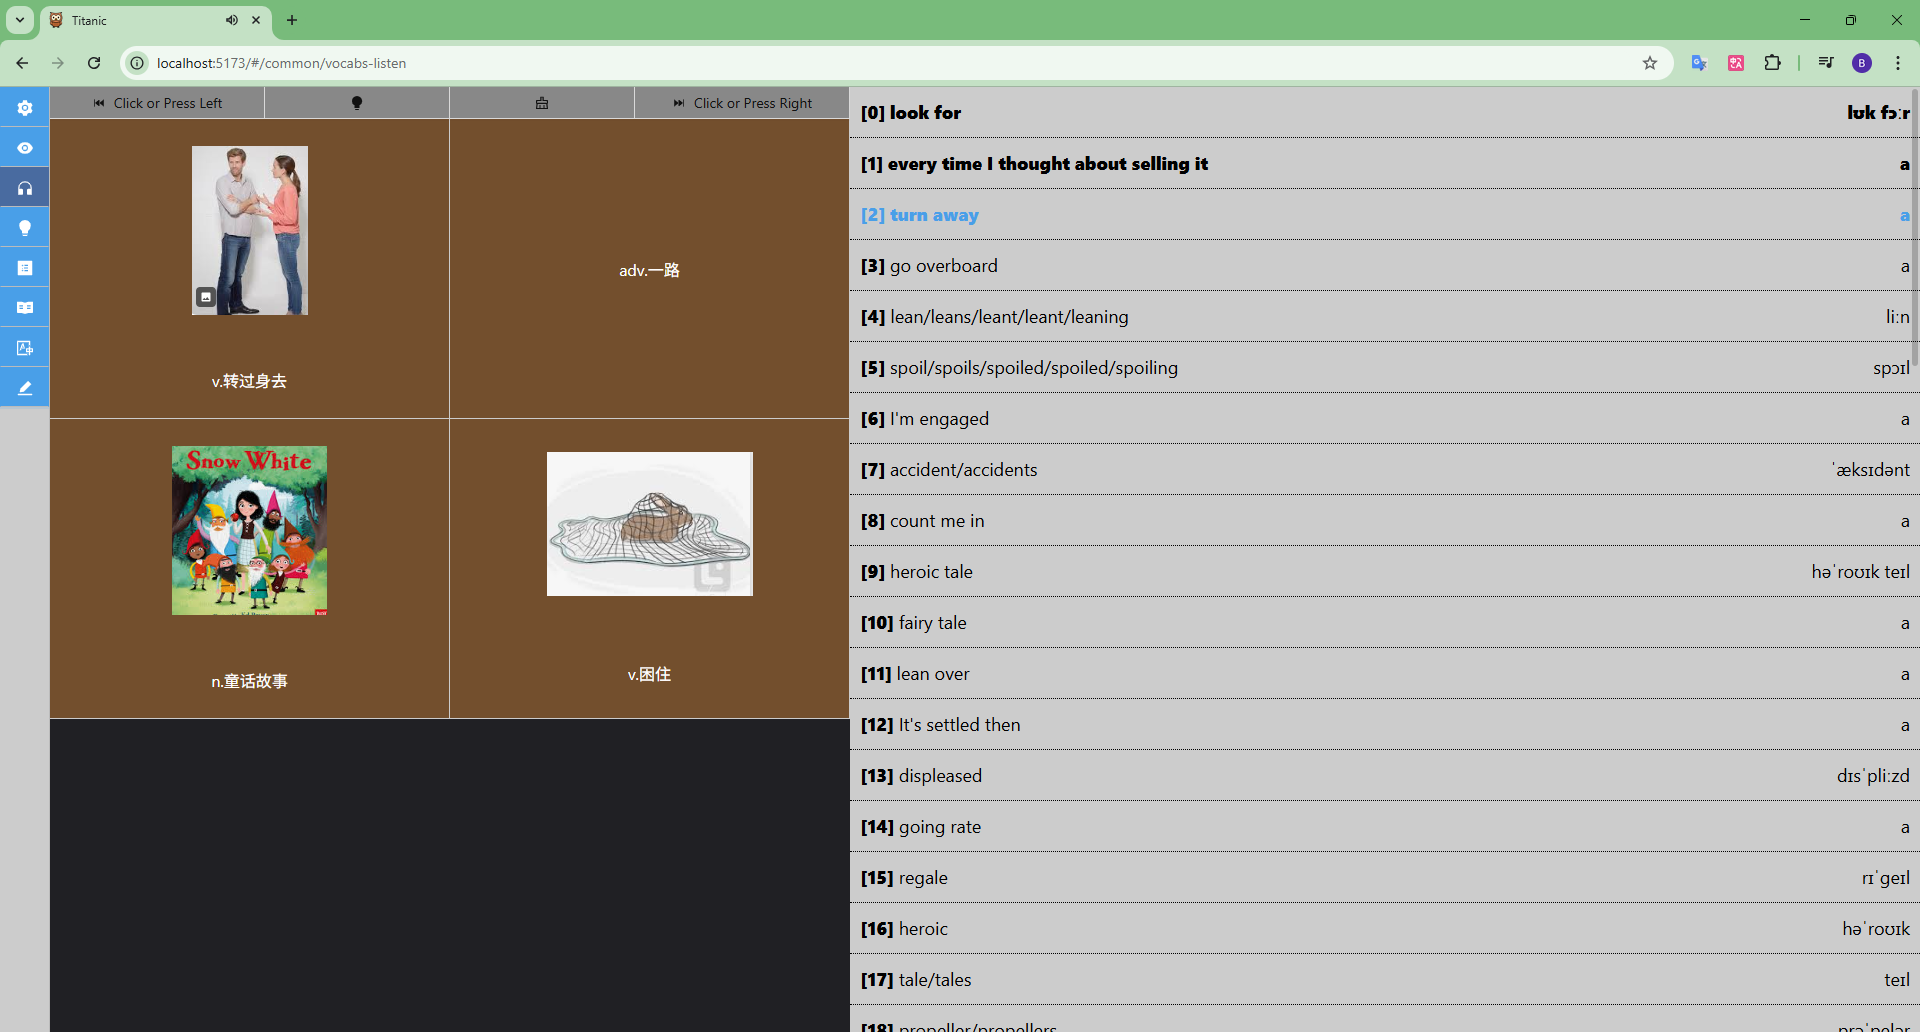
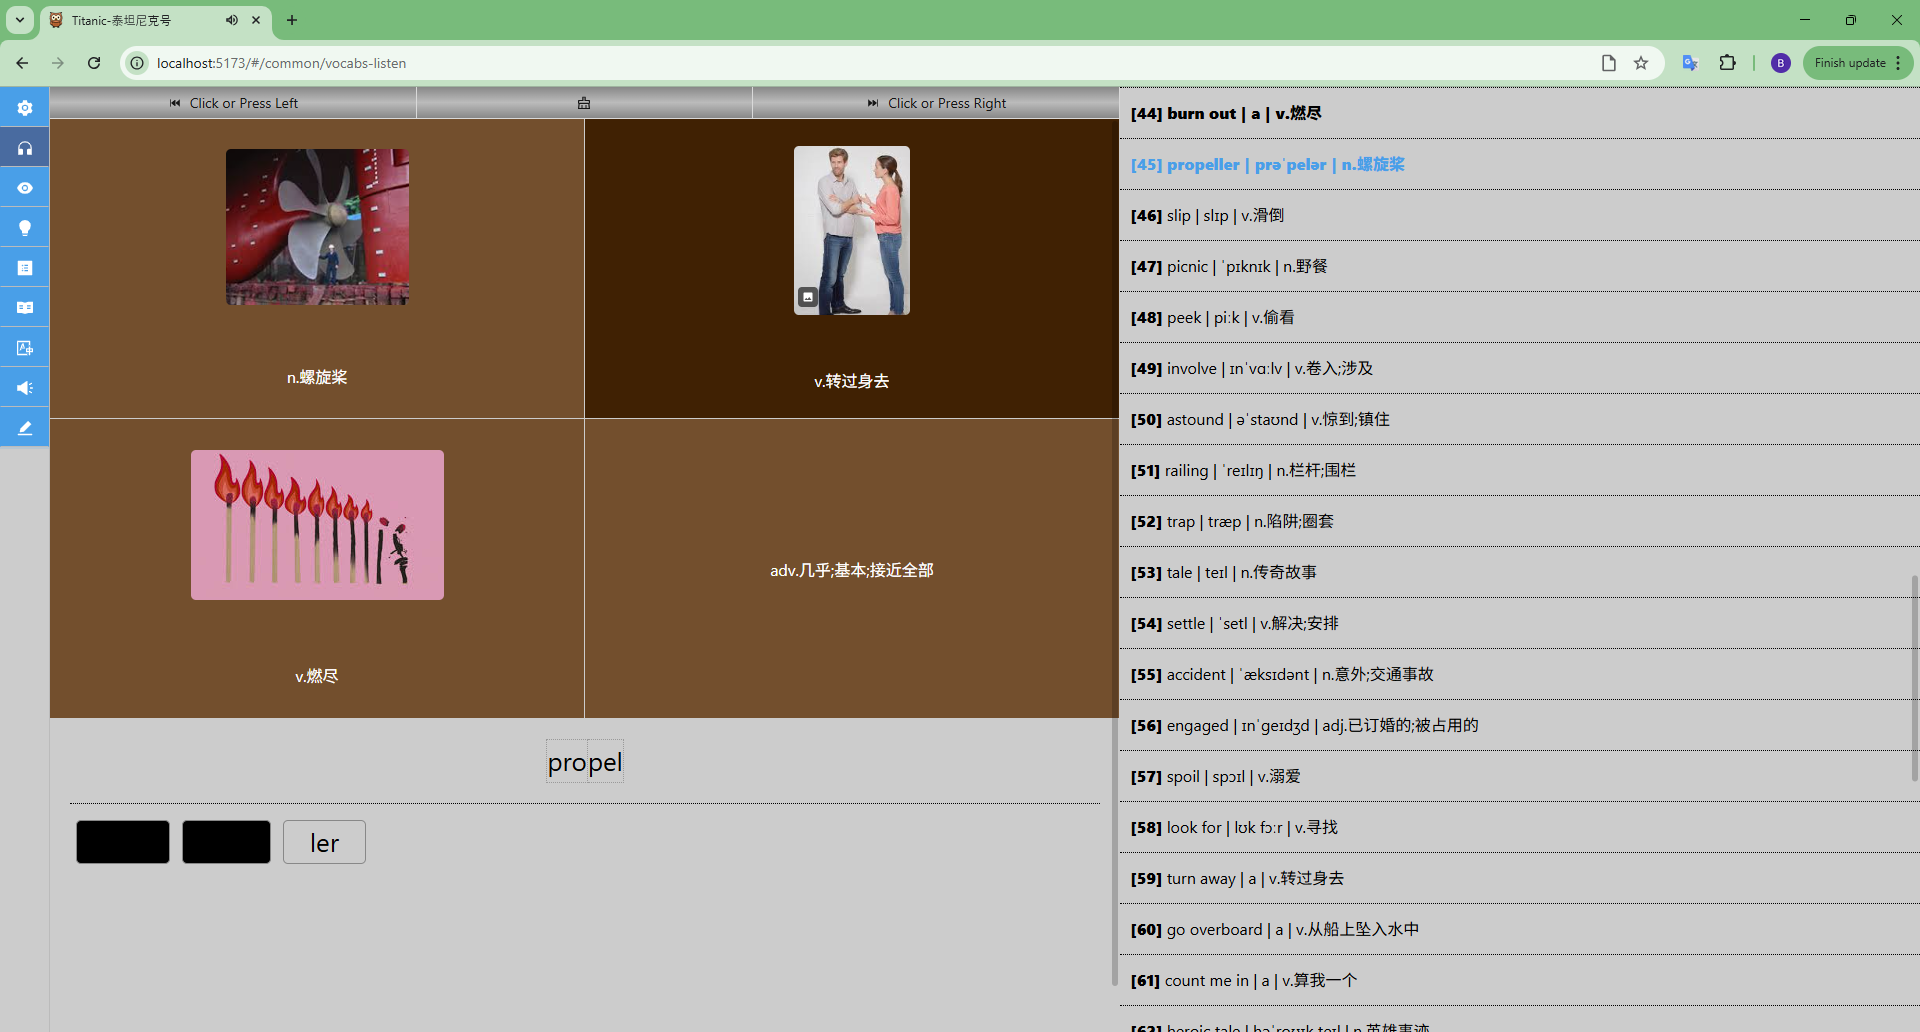
Layout & README & some other issues

diff --git a/ui/src/views/VideoRead/Index.tsx b/ui/src/views/VideoRead/Index.tsx
@@ -1,7 +1,7 @@
 import React, { useState, useRef, useEffect } from "react";
 import { Layout, Button } from "antd";
 import { Scrollbars } from "react-custom-scrollbars-2";
-import { RedoOutlined, FileWordOutlined, FastBackwardOutlined, AudioFilled, PrinterOutlined, PauseCircleOutlined, FastForwardOutlined, PlayCircleOutlined, ClearOutlined } from "@ant-design/icons";
+import { RedoOutlined, GoogleOutlined, FastBackwardOutlined, FileWordFilled, AudioFilled, PrinterOutlined, PauseCircleOutlined, FastForwardOutlined, PlayCircleOutlined, ClearOutlined } from "@ant-design/icons";
 import { RootState } from "../../stores";
 import { useNavigate } from "react-router-dom";
 import { useSelector, useDispatch } from "react-redux";
@@ -155,21 +155,21 @@ const Index = () => {
 						article .scene ul { margin: 0; padding: 2pt 0; color: #000; font-size: 10pt; line-height: 22pt; }
 						article .scene ul .role { font-style: normal; font-weight: 900; color: #000; }
 						article footer { height: 100%; }
-						article footer #vocabs,
-						article footer #grammars { color: #000; padding: 6pt 0 0; margin: 16pt; background: #fff; }
-						article footer #vocabs .title,
-						article footer #grammars .title { color: #000; margin: 0; line-height: 36pt; text-align: center; font-weight: 900; font-size: 12pt; }
-						article footer #vocabs .item,
-						article footer #grammars .item { margin: 0; padding: 2pt 0; border-top: 1px dotted #ccc; font-size: 12pt; line-height: 24pt; }
-						article footer #vocabs .item { display: flex; justify-content: space-between; }                              
-                        article footer #vocabs .item:nth-child(2),
-						article footer #grammars .item:nth-child(2) { border-top: 0; }
-                        article footer #vocabs .item .en { flex: 1; } 
-                        article footer #vocabs .item .pr,  
-                        article footer #vocabs .item .cn { flex: 0.5; } 
-                        article footer #vocabs .item .cn { font-size: 10pt; } 
-						article footer #vocabs .item .index,
-						article footer #grammars .item .index { font-weight: 300; margin-right: 1pt; font-style: normal; };
+						article footer #script-vocabs,
+						article footer #script-grammars { color: #000; padding: 6pt 0 0; margin: 16pt; background: #fff; }
+						article footer #script-vocabs .title,
+						article footer #script-grammars .title { color: #000; margin: 0; line-height: 36pt; text-align: center; font-weight: 900; font-size: 12pt; }
+						article footer #script-vocabs .item,
+						article footer #script-grammars .item { margin: 0; padding: 2pt 0; border-top: 1px dotted #ccc; font-size: 12pt; line-height: 24pt; }
+						article footer #script-vocabs .item { display: flex; justify-content: space-between; }                              
+                        article footer #script-vocabs .item:nth-child(2),
+						article footer #script-grammars .item:nth-child(2) { border-top: 0; }
+                        article footer #script-vocabs .item .en { flex: 1; } 
+                        article footer #script-vocabs .item .pr,  
+                        article footer #script-vocabs .item .cn { flex: 0.5; } 
+                        article footer #script-vocabs .item .cn { font-size: 10pt; } 
+						article footer #script-vocabs .item .index,
+						article footer #script-grammars .item .index { font-weight: 300; margin-right: 1pt; font-style: normal; };
 					}
 				`;
                 const content = ReactDOMServer.renderToStaticMarkup(<Script dataFormatted={dataFormatted} showFooter={true} />);
@@ -178,7 +178,7 @@ const Index = () => {
                 alert(`Data not be set`);
             }
         } else {
-            alert("Please create a plan.");
+            alert("Please upload a video.");
         }
     };
     const handlersPanelRecordStart = async () => {
@@ -206,7 +206,7 @@ const Index = () => {
     };
     useEffect(() => {
         if (!plan.hash || !plan.videoURL) {
-            alert("Please create a plan.");
+            alert("Please upload a video.");
             navigate("/common/settings");
         }
         if (plan.type !== 0 && plan.type !== 1) {
@@ -283,15 +283,9 @@ const Index = () => {
                     <Button icon={<FastForwardOutlined />} onClick={handlersPanelPlayForward} className="btn"></Button>
                     <Button icon={<ClearOutlined />} onClick={handlersPanelActiveClear} className="btn"></Button>
                     <Button icon={<AudioFilled />} onClick={handlersPanelRecordStart} className={recognitionRef.current && listening === true ? `btn recording` : `btn`}></Button>
-                    <Button icon={<PrinterOutlined />} onClick={handlersPrint} className="btn">
-                        Print
-                    </Button>
-                    <Button icon={<FileWordOutlined />} onClick={handlersVocabsEditorOpen} className="btn">
-                        Vocabs
-                    </Button>
-                    <Button icon={<FileWordOutlined />} onClick={handlersGrammarsEditorOpen} className="btn">
-                        Grammars
-                    </Button>
+                    <Button icon={<PrinterOutlined />} onClick={handlersPrint} className="btn" />
+                    <Button icon={<FileWordFilled />} onClick={handlersVocabsEditorOpen} className="btn" />
+                    <Button icon={<GoogleOutlined />} onClick={handlersGrammarsEditorOpen} className="btn" />
                 </section>
                 <Scrollbars ref={refScrollbar}>
                     <Script dataFormatted={dataFormatted} matchingSentence={matchingSentence} onRendered={handlersRenderedCallback} />

diff --git a/ui/src/views/VideoTranslate/Index.tsx b/ui/src/views/VideoTranslate/Index.tsx
@@ -123,20 +123,20 @@ const Index = () => {
 						article .scene ul { margin: 0; padding: 2pt 0; color: #000; font-size: 10pt; line-height: 22pt; }
 						article .scene ul .role { font-style: normal; font-weight: 900; color: #000; }
 						article footer { height: 100%; }
-						article footer #vocabs,
-						article footer #grammars { color: #000; padding: 6pt 0 0; margin: 16pt; background: #fff; }
-						article footer #vocabs .title,
-						article footer #grammars .title { color: #000; margin: 0; line-height: 36pt; text-align: center; font-weight: 900; font-size: 12pt; }
-						article footer #vocabs .item,
-						article footer #grammars .item { margin: 0; padding: 2pt 0; border-top: 1px dotted #ccc; font-size: 10pt; line-height: 22pt; }
-						article footer #vocabs .item { display: flex; justify-content: space-between; }                              
-                        article footer #vocabs .item:nth-child(2),
-						article footer #grammars .item:nth-child(2) { border-top: 0; }
-                        article footer #vocabs .item .en { flex: 1; } 
-                        article footer #vocabs .item .pr,  
-                        article footer #vocabs .item .cn { flex: 0.5; } 
-						article footer #vocabs .item .index,
-						article footer #grammars .item .index { font-weight: 300; margin-right: 1pt; font-style: normal; };
+						article footer #script-vocabs,
+						article footer #script-grammars { color: #000; padding: 6pt 0 0; margin: 16pt; background: #fff; }
+						article footer #script-vocabs .title,
+						article footer #script-grammars .title { color: #000; margin: 0; line-height: 36pt; text-align: center; font-weight: 900; font-size: 12pt; }
+						article footer #script-vocabs .item,
+						article footer #script-grammars .item { margin: 0; padding: 2pt 0; border-top: 1px dotted #ccc; font-size: 10pt; line-height: 22pt; }
+						article footer #script-vocabs .item { display: flex; justify-content: space-between; }                              
+                        article footer #script-vocabs .item:nth-child(2),
+						article footer #script-grammars .item:nth-child(2) { border-top: 0; }
+                        article footer #script-vocabs .item .en { flex: 1; } 
+                        article footer #script-vocabs .item .pr,  
+                        article footer #script-vocabs .item .cn { flex: 0.5; } 
+						article footer #script-vocabs .item .index,
+						article footer #script-grammars .item .index { font-weight: 300; margin-right: 1pt; font-style: normal; };
 					}
 				`;
                 const content = ReactDOMServer.renderToStaticMarkup(<Script dataFormatted={dataFormatted} encn={1} />);
@@ -145,12 +145,12 @@ const Index = () => {
                 alert(`Data not be set`);
             }
         } else {
-            alert("Please create a plan.");
+            alert("Please upload a video.");
         }
     };
     useEffect(() => {
         if (!plan.hash || !plan.videoURL) {
-            alert("Please create a plan.");
+            alert("Please upload a video.");
             navigate("/common/settings");
         }
         if (plan.type !== 0 && plan.type !== 1) {

diff --git a/ui/src/views/VideoScript/Data.tsx b/ui/src/views/VideoScript/Data.tsx
@@ -1,7 +1,7 @@
 import React, { useState, useRef, useEffect } from "react";
 import { Input, Button } from "antd";
 import { Scrollbars } from "react-custom-scrollbars-2";
-import { ScissorOutlined, ApiOutlined, FileWordOutlined, MinusCircleOutlined, GoogleOutlined, PlusCircleOutlined, TeamOutlined, DesktopOutlined, PlusSquareOutlined, MinusSquareOutlined, CustomerServiceFilled } from "@ant-design/icons";
+import { ScissorOutlined, ApiOutlined, FileWordFilled, MinusCircleOutlined, GoogleOutlined, PlusCircleOutlined, TeamOutlined, DesktopOutlined, PlusSquareOutlined, MinusSquareOutlined, CustomerServiceFilled } from "@ant-design/icons";
 import { RootState } from "../../stores";
 import { useSelector, useDispatch } from "react-redux";
 import { vocabImagePronunciationMove, vocabImagePronunciationRemove } from "../../api/requestAuth";
@@ -190,24 +190,12 @@ const Data = React.memo(() => {
                 <Button icon={<MinusCircleOutlined />} onClick={handlersSentenceDelete}>
                     S
                 </Button>
-                <Button icon={<ApiOutlined />} onClick={handlersSentenceLinkingsEditorOpen}>
-                    Linkings
-                </Button>
-                <Button icon={<CustomerServiceFilled />} onClick={handlersClipsEditorOpen}>
-                    Clips
-                </Button>
-                <Button icon={<TeamOutlined />} onClick={handlersRolesEditorOpen}>
-                    Roles
-                </Button>
-                <Button icon={<DesktopOutlined />} onClick={handlersScenesEditorOpen}>
-                    Scenes
-                </Button>
-                <Button icon={<FileWordOutlined />} onClick={handlersVocabsEditorOpen}>
-                    Vocabs
-                </Button>
-                <Button icon={<GoogleOutlined />} onClick={handlersGrammarsEditorOpen}>
-                    Grammars
-                </Button>
+                <Button icon={<ApiOutlined />} onClick={handlersSentenceLinkingsEditorOpen} />
+                <Button icon={<CustomerServiceFilled />} onClick={handlersClipsEditorOpen} />
+                <Button icon={<TeamOutlined />} onClick={handlersRolesEditorOpen} />
+                <Button icon={<DesktopOutlined />} onClick={handlersScenesEditorOpen} />
+                <Button icon={<FileWordFilled />} onClick={handlersVocabsEditorOpen} />
+                <Button icon={<GoogleOutlined />} onClick={handlersGrammarsEditorOpen} />
             </div>
             <div className="script-meta">
                 <Input defaultValue={script.title} onBlur={(e) => handlersScriptNameUpdate(e.target.value)} placeholder="Script Title" />

diff --git a/ui/src/views/CommonSettings/Index.tsx b/ui/src/views/CommonSettings/Index.tsx
@@ -93,7 +93,7 @@ const Index = () => {
                 alert("Please upload a zip data file.");
             }
         } else {
-            alert("Please create a plan.");
+            alert("Please upload a video.");
         }
         return false;
     };
@@ -128,7 +128,7 @@ const Index = () => {
                 alert("Something wrong happened.");
             }
         } else {
-            alert("Please create a plan with a title.");
+            alert("Please upload a video with a title.");
         }
     };
     const handlersExportAudio = async () => {
@@ -147,7 +147,7 @@ const Index = () => {
                 console.error("save error: ", error);
             }
         } else {
-            alert("Please create a plan.");
+            alert("Please upload a video.");
         }
     };
     const handlersPlanCount = async () => {
@@ -182,7 +182,7 @@ const Index = () => {
     }, []);
     return (
         <Layout className="main-inner" id="video-settings">
-            <div className="main-inner-item-main">
+            <div className="main-inner-item-aside">
                 <section className="sec">
                     <Upload className="sec-item" showUploadList={false} beforeUpload={handlersImportVideo} disabled={processings[0] || !!plan.data.title}>
                         <Button icon={<PlusCircleOutlined />} disabled={!!plan.data.title} loading={processings[0]}>

diff --git a/ui/src/views/layout/Main.scss b/ui/src/views/layout/Main.scss
@@ -11,12 +11,12 @@
         flex-direction: row;
         background-color: #000;
         .main-inner-item-aside {
-            flex: 0 0 800px;
+            flex: 1;
             box-sizing: border-box;
             background-color: #202024;
         }
         .main-inner-item-main {
-            flex: 1;
+            flex: 0 0 800px;
             box-sizing: border-box;
             background-color: #ffffff1a;
         }

diff --git a/ui/src/views/VideoScript/Data.scss b/ui/src/views/VideoScript/Data.scss
@@ -12,12 +12,13 @@
             border-left: 0;
             border-radius: 0;
             background: linear-gradient(to bottom, #888, #bbb, #888);
+            min-width: 0;
         }
         &.fixed {
             position: fixed;
             right: 0;
             top: 0;
-            width: calc(100% - 850px);
+            width: 800px;
             z-index: 997;
         }
     }

diff --git a/ui/src/views/CommonVocabsWatch/Index.tsx b/ui/src/views/CommonVocabsWatch/Index.tsx
@@ -85,7 +85,7 @@ const Index = () => {
     };
     useEffect(() => {
         if (!plan.hash || !plan.videoURL) {
-            alert("Please create a plan.");
+            alert("Please upload a video.");
             navigate("/common/settings");
         }
         refWordListArr.current = refWordList.current?.querySelectorAll(".line");

diff --git a/ui/src/views/CommonVocabsListen/Index.tsx b/ui/src/views/CommonVocabsListen/Index.tsx
@@ -150,7 +150,7 @@ const Index = () => {
     };
     useEffect(() => {
         if (!plan.hash || !plan.videoURL) {
-            alert("Please create a plan.");
+            alert("Please upload a video.");
             navigate("/common/settings");
         }
         const onKeyDownHandler = (event: KeyboardEvent) => {

diff --git a/ui/src/views/VideoAudioClips/Index.tsx b/ui/src/views/VideoAudioClips/Index.tsx
@@ -90,7 +90,7 @@ const Index = () => {
     };
     useEffect(() => {
         if (!plan.hash || !plan.videoURL) {
-            alert("Please create a plan.");
+            alert("Please upload a video.");
             navigate("/common/settings");
         }
         const onKeyDownHandler = (event: KeyboardEvent) => {

diff --git a/ui/src/views/VideoScript/Index.tsx b/ui/src/views/VideoScript/Index.tsx
@@ -140,7 +140,7 @@ const Index = () => {
     };
     useEffect(() => {
         if (!plan.hash || !plan.videoURL) {
-            alert("Please create a plan.");
+            alert("Please upload a video.");
             navigate("/common/settings");
         }
         if (plan.type !== 0 && plan.type !== 1) {

diff --git a/ui/src/views/DiaryEdit/Index.tsx b/ui/src/views/DiaryEdit/Index.tsx
@@ -96,7 +96,7 @@ const Index = () => {
     };
     useEffect(() => {
         if (!plan.hash || !plan.videoURL) {
-            alert("Please create a plan.");
+            alert("Please upload a video.");
             navigate("/common/settings");
         }
         if (plan.type !== 0 && plan.type !== 2) {

diff --git a/ui/src/views/CommonVocabsMeaning/Index.tsx b/ui/src/views/CommonVocabsMeaning/Index.tsx
@@ -86,7 +86,7 @@ const Index = () => {
     };
     useEffect(() => {
         if (!plan.hash || !plan.videoURL) {
-            alert("Please create a plan.");
+            alert("Please upload a video.");
             navigate("/common/settings");
         }
         return () => {};
